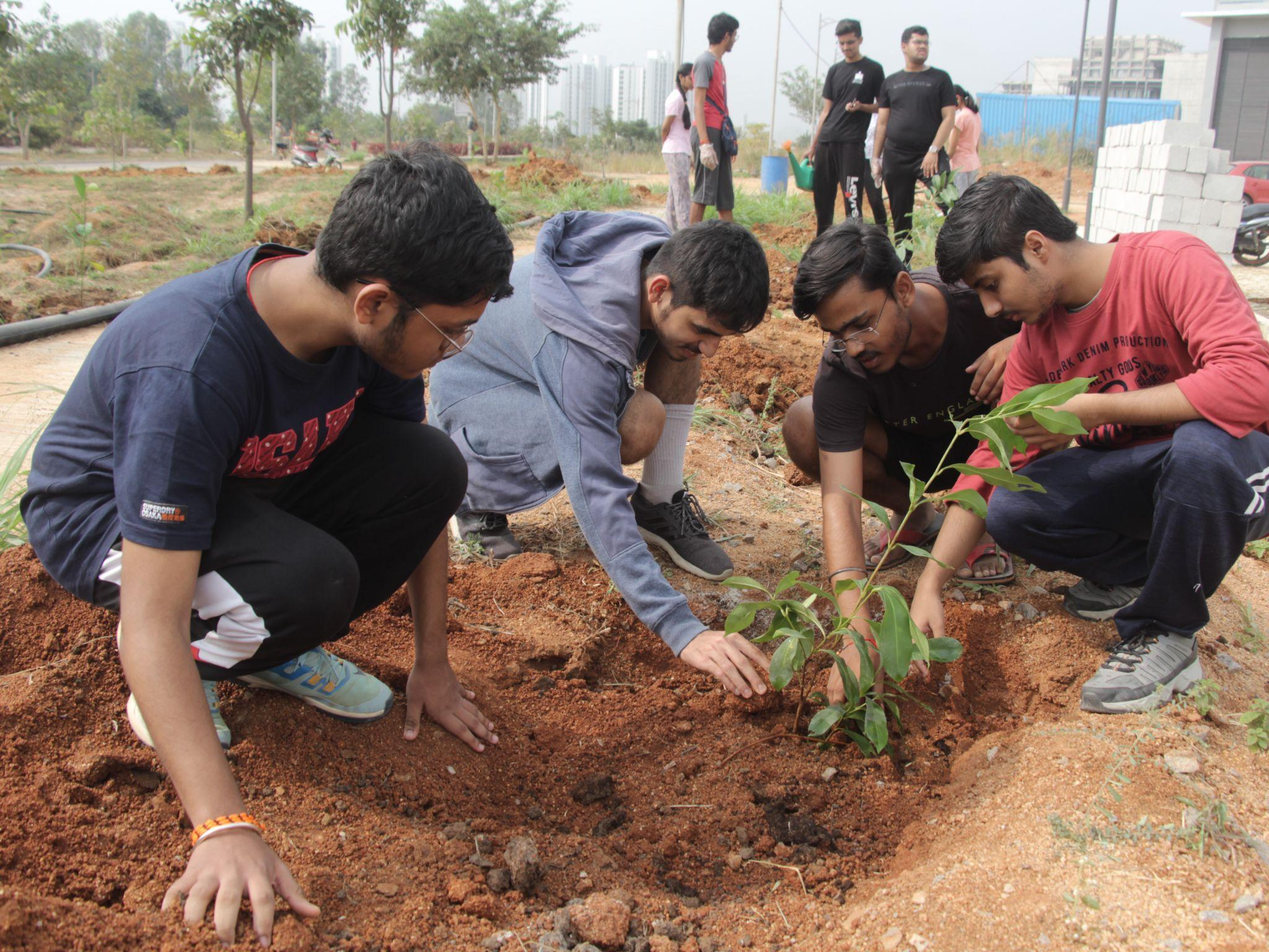
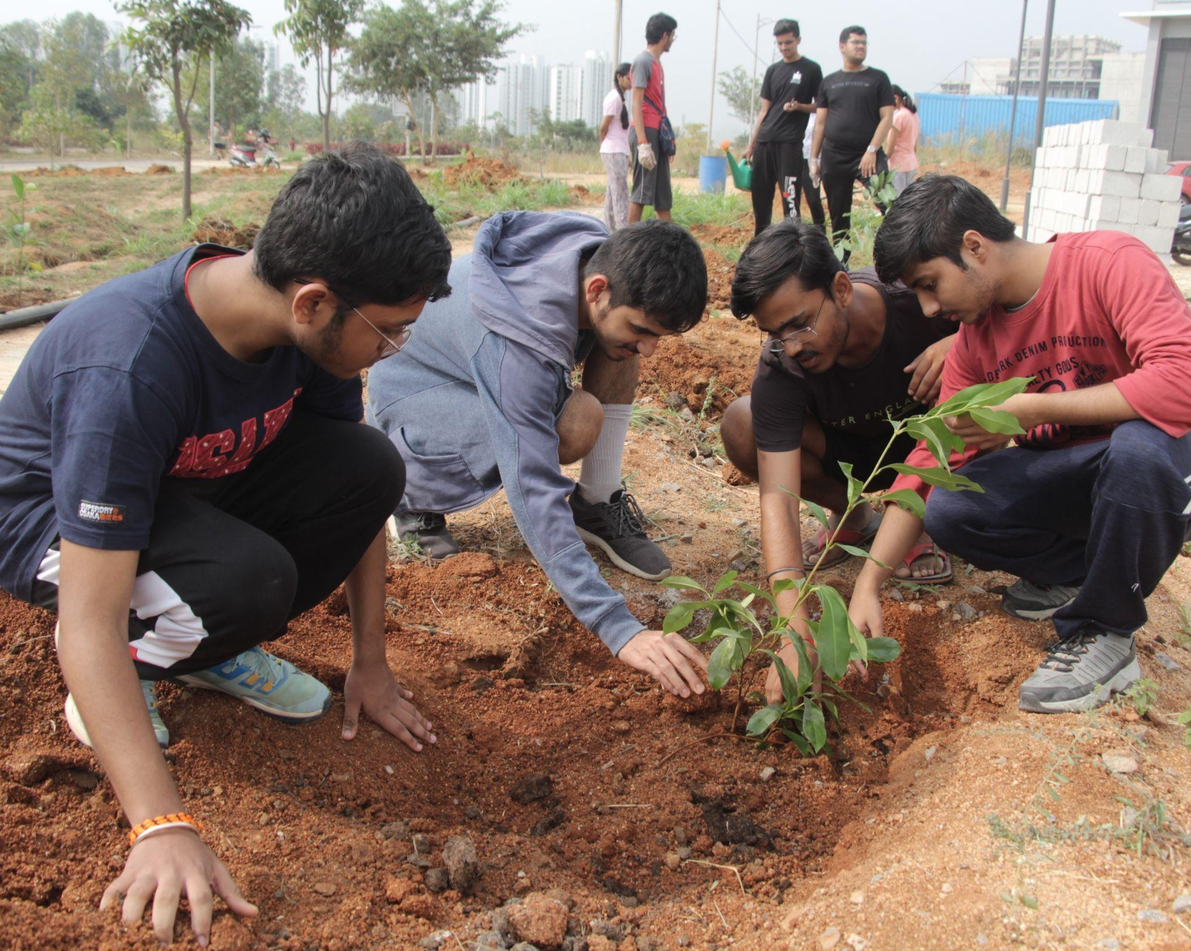
images update in event and gallary

diff --git a/events/plantation-drive.html b/events/plantation-drive.html
@@ -68,5 +68,26 @@ title: Plantation Drive
         alt=""
       />
     </div>
+    <div class="col-lg-3 col-md-4 col-12" style="padding: 10px 0px">
+      <img
+        src="../assets/images/events/Plantation/PLA_001.jpg"
+        class="img-fluid shadow-lg rounded img-thumbnail"
+        alt=""
+      />
+    </div>
+    <div class="col-lg-3 col-md-4 col-12" style="padding: 10px 0px">
+      <img
+        src="../assets/images/events/Plantation/PLA_002.jpg"
+        class="img-fluid shadow-lg rounded img-thumbnail"
+        alt=""
+      />
+    </div>
+    <div class="col-lg-3 col-md-4 col-12" style="padding: 10px 0px">
+      <img
+        src="../assets/images/events/Plantation/plant.jpg"
+        class="img-fluid shadow-lg rounded img-thumbnail"
+        alt=""
+      />
+    </div>
   </div>
 </div>

diff --git a/events.html b/events.html
@@ -214,7 +214,7 @@ title: Events
         <div class="view view-cascade overlay">
           <img
             class="card-img-top"
-            src="./assets/images/events/Plantation/plant.jpg"
+            src="./assets/images/events/Plantation/PLA.jpg"
             alt="Card image cap"
           />
           <div class="mask rgba-white-slight"></div>

diff --git a/events/swachh-bharat.html b/events/swachh-bharat.html
@@ -103,12 +103,5 @@ title: Swachh Bharat
         alt=""
       />
     </div>
-    <div class="col-lg-3 col-md-4 col-12" style="padding: 10px 0px">
-      <img
-        src="../assets/images/Events 2021-22/Swachha bharat pics/img-8.jpg"
-        class="img-fluid shadow-lg rounded img-thumbnail"
-        alt=""
-      />
-    </div>
   </div>
 </div>
